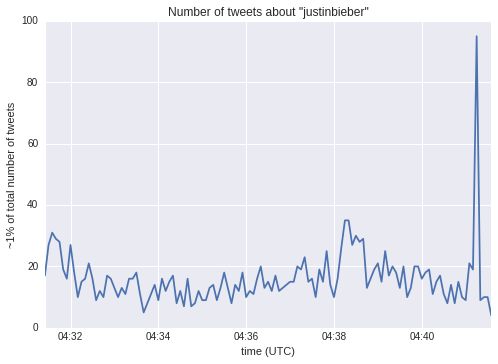
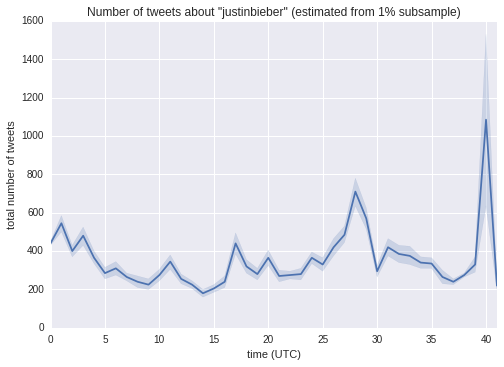
add confidence intervals in p8.2.

diff --git a/week08/p2.md b/week08/p2.md
@@ -125,7 +125,45 @@ Note that you will get different times and numbers.
 
 ### Plot
 
-Finally, plot the number of tweets vs time.
+### Plot
+
+Finally, we plot the total number of tweets vs time.
+  But do you remember that the streaming tweets are only a 1% subsample of the
+  entire tweets?
+  How would one estimate the total number of tweets from a subsample?
+  The simplest way is to multiply the number by 100,
+  but this ignores the uncertainties in the number.
+  Here, we will use a technique called 
+  <a href="http://en.wikipedia.org/wiki/Bootstrapping_(statistics)">Bootstrapping</a>.
+  The basic idea is in a time interval of, say, 15 seconds,
+  one might have the following bucket of measurements:
+             
+```python
+[4, 5, 4, 4, 4, 7, 6, 8, 2, 7, 8, 5, 5, 6, 6]
+```
+We randomly pick a number from this bucket, remember the
+number, and put it back in the bucket.
+We repeat this for $n$ times. After, say, 20 times, we might
+end up with
+
+```python
+[6.0, 8.0, 8.0, 5.0, 7.0, 4.0, 5.0, 4.0, 4.0, 8.0, 8.0, 8.0,
+7.0, 6.0, 5.0, 5.0, 6.0, 4.0, 4.0, 7.0]
+```
+                
+We multiply each element by 100 and build such a resampled
+  distribution for every 15 second interval.
+
+```python
+np.random.seed(490) # do note change this number
+sample = [ts.resample('15S', how=np.random.choice) * 100. for _ in range(20)]
+```
+
+- Use this sample in `sns.tsplot()`, which will draw confidence intervals for
+  you.
+  Note that without bootstrapping (i.e. simply multiplying the numbers by 100)
+  you have a single number for each time interval and
+  don't get confidence intervals.
 
 Here's an example:
 
